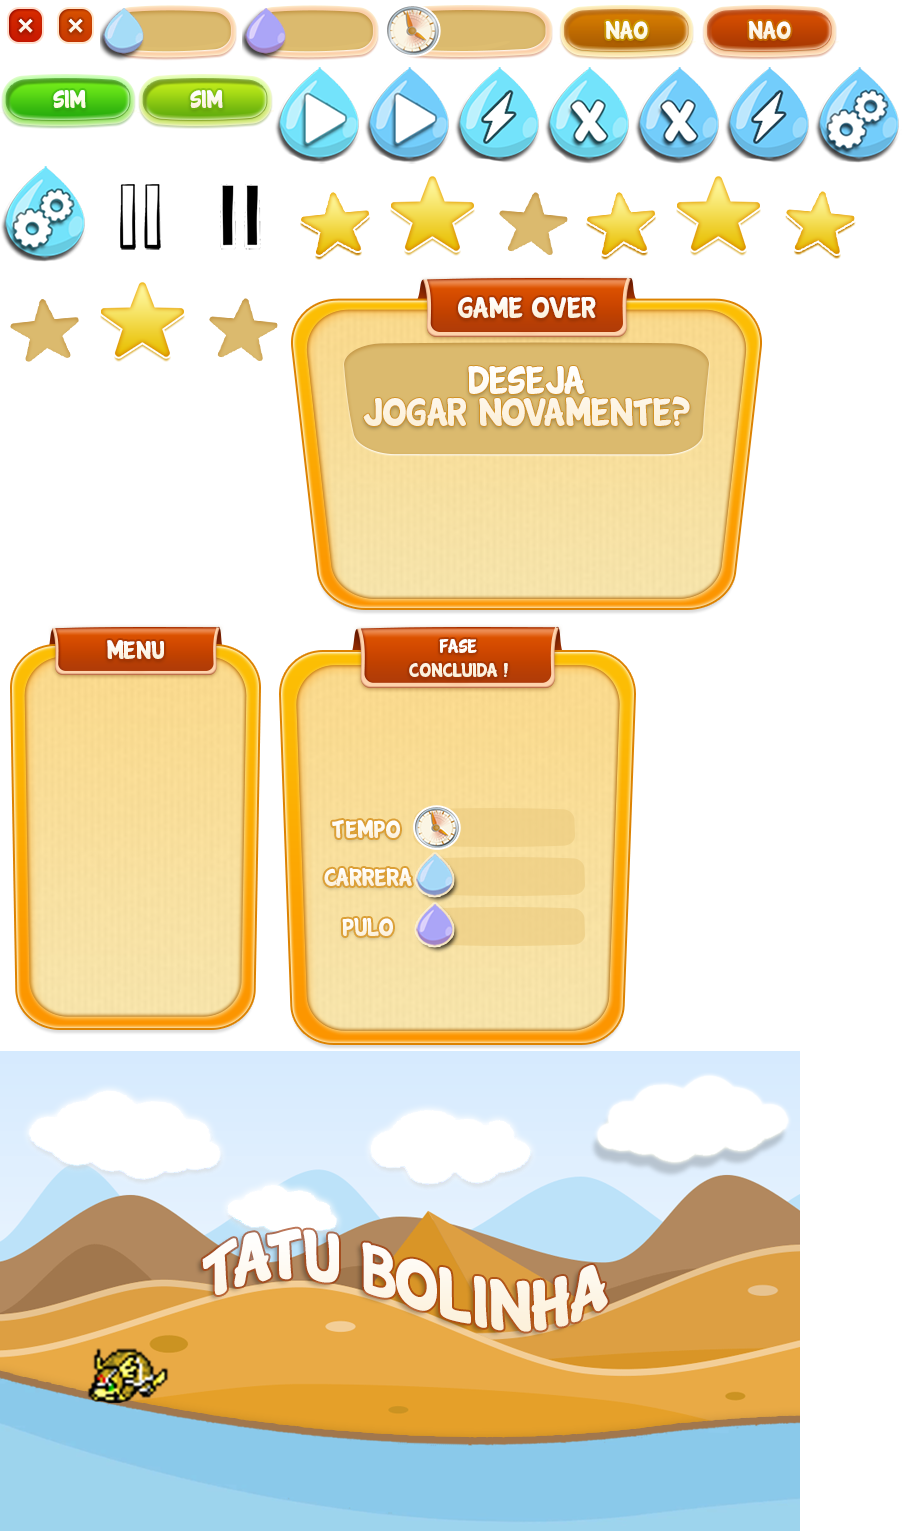
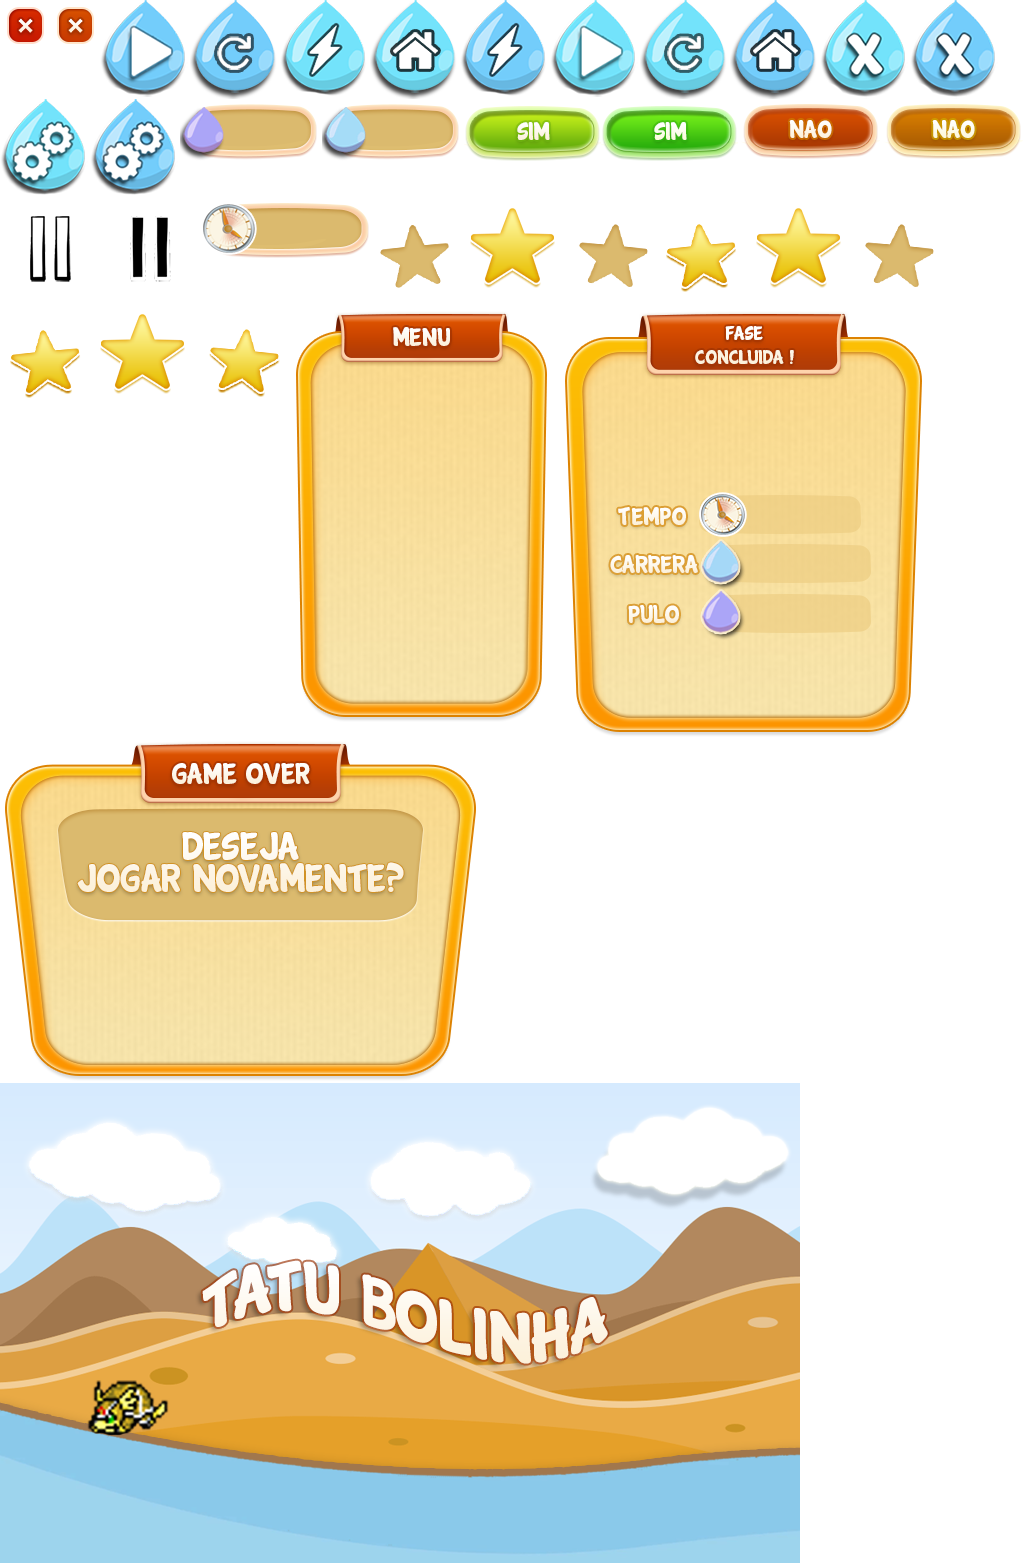
Commit com finalizacao da tela de Fim da fase

diff --git a/core/src/com/tatu/game/Screens/FinalLevelScreen.java b/core/src/com/tatu/game/Screens/FinalLevelScreen.java
@@ -3,18 +3,28 @@ package com.tatu.game.Screens;
 import com.badlogic.gdx.Game;
 import com.badlogic.gdx.Gdx;
 import com.badlogic.gdx.Screen;
+import com.badlogic.gdx.audio.Sound;
+import com.badlogic.gdx.graphics.Color;
 import com.badlogic.gdx.graphics.GL20;
 import com.badlogic.gdx.graphics.OrthographicCamera;
+import com.badlogic.gdx.graphics.g2d.BitmapFont;
 import com.badlogic.gdx.graphics.g2d.TextureAtlas;
 import com.badlogic.gdx.scenes.scene2d.InputEvent;
 import com.badlogic.gdx.scenes.scene2d.Stage;
 import com.badlogic.gdx.scenes.scene2d.ui.Button;
 import com.badlogic.gdx.scenes.scene2d.ui.Image;
+import com.badlogic.gdx.scenes.scene2d.ui.Label;
 import com.badlogic.gdx.scenes.scene2d.ui.Skin;
 import com.badlogic.gdx.scenes.scene2d.utils.ClickListener;
 import com.badlogic.gdx.utils.viewport.FitViewport;
 import com.badlogic.gdx.utils.viewport.Viewport;
 import com.tatu.game.TatuBola;
+import com.tatu.game.Util.BdManager;
+import com.tatu.game.Util.Session;
+
+import java.awt.Font;
+import java.text.SimpleDateFormat;
+import java.util.Date;
 
 /**
  * Created by uehara on 21/08/17.
@@ -25,27 +35,30 @@ public class FinalLevelScreen implements Screen {
     private Stage stage;
     private TatuBola game;
 
-    private int mortes;
+    private int level;
     private int tempo;
     private int aguaCarrera;
     private int aguaPulo;
+    private Sound selecionado;
+    private Session session = Session.getInstance();
 
-    //public FinalLevelScreen(TatuBola game, int mortes , int tempo, int aguaCarrera, int aguaPulo) {
-    public FinalLevelScreen(TatuBola game) {
+    public FinalLevelScreen(TatuBola game, int level, int tempo, int aguaCarrera, int aguaPulo) {
 
         this.game = game;
-        /*
-        this.mortes = mortes;
+        this.level = level;
         this.tempo = tempo;
         this.aguaCarrera = aguaCarrera;
         this.aguaPulo = aguaPulo;
-        */
+
 
         OrthographicCamera cam = new OrthographicCamera();
         Viewport viewport = new FitViewport(800, 480, cam);
         //Viewport viewport = new FitViewport(V_WIDTH, V_HEIGHT, cam);
         stage = new Stage(viewport, TatuBola.batch);
         Gdx.input.setInputProcessor(stage);
+
+        selecionado = Gdx.audio.newSound(Gdx.files.internal("efeitos/selecionado.wav"));
+
     }
 
     @Override
@@ -61,34 +74,165 @@ public class FinalLevelScreen implements Screen {
         gameOver.setPosition( ( 800 - 372)/2 , (480 - 434)/2 ) ;
         stage.addActor(gameOver);
 
-        Image star = new Image(skin,"1star");
+        String strTempo = new SimpleDateFormat("mm:ss").format(new Date(this.tempo * 1000L));
+
+        Double desempenhoTemp = Double.valueOf((getDesempenhoAguaCarrera() + getDesempenhoAguaPulo() + getDesempenhoTempo() ) / 3);
+        int desempenho = (int) Math.floor(desempenhoTemp);
+
+        String starResource = "1star";
+        switch (desempenho){
+            case 1:
+                starResource = "1star";
+                break;
+            case 2:
+                starResource = "2star";
+                break;
+            case 3:
+                starResource = "3star";
+                break;
+        }
+
+        Image star = new Image(skin,starResource);
         star.setPosition( 260 , 270 ) ;
         stage.addActor(star);
 
+        Label.LabelStyle font = new Label.LabelStyle(new BitmapFont(Gdx.files.internal("fonts/cartwhel.fnt")), Color.WHITE);
+
+        Label tempoLabel = new Label(strTempo, font);
+        tempoLabel.setPosition(410, 230);
+        stage.addActor(tempoLabel);
+
+        Label aguaCarreraLabel = new Label(this.aguaCarrera+"", font);
+        aguaCarreraLabel.setPosition(410, 180);
+        stage.addActor(aguaCarreraLabel);
+
+        Label aguaPuloLabel = new Label(this.aguaPulo+"", font);
+        aguaPuloLabel.setPosition(410, 130);
+        stage.addActor(aguaPuloLabel);
+
+        session.getUsuarioLogado().setAguaCarreraMoney(session.getUsuarioLogado().getAguaCarreraMoney() + this.aguaCarrera);
+        session.getUsuarioLogado().setAguaPuloMoney(session.getUsuarioLogado().getAguaPuloMoney() + this.aguaPulo);
+        session.getUsuarioLogado().getLevels().get(this.level).setScore(desempenho);
+        session.getUsuarioLogado().getLevels().get(this.level+1).setLocked(false);
+        BdManager.getInstance().saveUserInSharedPref(session.getUsuarioLogado());
+
+        int negativeScale = 25;
+
+        Button playAgainButton = new Button(skin, "playAgainButton");
+        playAgainButton.setPosition( 270 , 50) ;
+        playAgainButton.setWidth(playAgainButton.getWidth()-negativeScale);
+        playAgainButton.setHeight(playAgainButton.getHeight()-negativeScale);
+        stage.addActor(playAgainButton);
+
         Button jogarButton = new Button(skin, "jogarButton");
-        jogarButton.setPosition( 200 , 50) ;
+        jogarButton.setPosition( 370 , 50) ;
+        jogarButton.setWidth(jogarButton.getWidth()-negativeScale);
+        jogarButton.setHeight(jogarButton.getHeight()-negativeScale);
         stage.addActor(jogarButton);
 
+        Button lojaButton = new Button(skin, "lojaButton");
+        lojaButton.setPosition(470, 50);
+        lojaButton.setWidth(lojaButton.getWidth()-negativeScale);
+        lojaButton.setHeight(lojaButton.getHeight()-negativeScale);
+        stage.addActor(lojaButton);
 
-        Button sairButton = new Button(skin, "sairButton");
-        sairButton.setPosition( 350 , 50) ;
-        stage.addActor(sairButton);
-
-        jogarButton.addListener(new ClickListener() {
+        lojaButton.addListener(new ClickListener() {
             @Override
             public void clicked(InputEvent event, float x, float y) {
+                selecionado.play();
+                ((Game) Gdx.app.getApplicationListener()).setScreen(new LojaScreen(game));
+                dispose();
+            }
+        });
+
+        playAgainButton.addListener(new ClickListener() {
+            @Override
+            public void clicked(InputEvent event, float x, float y) {
+                selecionado.play();
+                ((Game)Gdx.app.getApplicationListener()).setScreen(new PlayScreen(game,level));
+                dispose();
+            }
+        });
+
+        jogarButton.addListener(new ClickListener(){
+            @Override
+            public void clicked(InputEvent event, float x, float y) {
+                selecionado.play();
                 ((Game)Gdx.app.getApplicationListener()).setScreen(new LevelScreen(game));
                 dispose();
             }
         });
+    }
 
-        sairButton.addListener(new ClickListener(){
-            @Override
-            public void clicked(InputEvent event, float x, float y) {
-                ((Game)Gdx.app.getApplicationListener()).setScreen(new MenuScreen(game));
-                dispose();
-            }
-        });
+    public int getDesempenhoAguaCarrera(){
+        // Inicializando
+        int levelCarrera = 1;
+
+        if (this.level == 1 ) {
+            //Quantidade de aguas que existem na fase 1
+            levelCarrera = 2;
+        }else if (this.level == 2 ){
+            levelCarrera = 8;
+        }else if (this.level == 3 ){
+            levelCarrera = 8;
+        }
+        int desempenhoParcial = this.aguaCarrera/levelCarrera;
+        if (desempenhoParcial >= 0.75) {
+            return 3;
+        }else if (desempenhoParcial >= 0.5 && desempenhoParcial < 0.75 ){
+            return 2;
+        }else if(desempenhoParcial < 0.5){
+            return 1;
+        }
+        // Retorno padrão em caso de algum erro.
+        return 1;
+    }
+
+    public int getDesempenhoAguaPulo(){
+        // Inicializando
+        int levelPulo = 1;
+
+        if (this.level == 1 ) {
+            //Quantidade de aguas que existem na fase 1
+             levelPulo = 2;
+        }else if (this.level == 2 ){
+            levelPulo = 8;
+        }else if (this.level == 3 ){
+            levelPulo = 8;
+        }
+        int desempenhoParcial = this.aguaPulo/levelPulo;
+        if (desempenhoParcial >= 0.75) {
+            return 3;
+        }else if (desempenhoParcial >= 0.5 && desempenhoParcial < 0.75 ){
+            return 2;
+        }else if(desempenhoParcial < 0.5){
+            return 1;
+        }
+        // Retorno padrão em caso de algum erro.
+        return 1;
+    }
+
+    public int getDesempenhoTempo(){
+        int tempoMinimo = 60;
+        if (this.level == 1 ) {
+            //Tempo minimo para completar a fase 1
+            tempoMinimo = 80;
+        }else if (this.level == 2 ){
+            tempoMinimo = 80;
+        }else if (this.level == 3 ){
+            tempoMinimo = 80;
+        }
+        int desempenhoParcial = this.tempo/tempoMinimo;
+        if (desempenhoParcial <= 1.5) {
+            return 3;
+        }else if (desempenhoParcial > 1.5 && desempenhoParcial <= 2){
+            return 2;
+        }else if(desempenhoParcial > 2){
+            return 1;
+        }
+        // Retorno padrão em caso de algum erro.
+        return 1;
+
     }
 
     @Override

diff --git a/core/src/com/tatu/game/Screens/PlayScreen.java b/core/src/com/tatu/game/Screens/PlayScreen.java
@@ -52,11 +52,14 @@ public class PlayScreen implements Screen {
 
     private boolean block;
     private Music musica;
+    private int level;
 
     private Group pauseGroup;
 
     public PlayScreen(TatuBola game, int level) {
         this.game = game;
+
+        this.level = level;
 
         atlas = new TextureAtlas("sprites/Tatu64 - Copia - Copia.atlas");
         gameCam = new OrthographicCamera(V_WIDTH, V_HEIGHT);
@@ -191,7 +194,7 @@ public class PlayScreen implements Screen {
         if (player.acabouFase()) {
             musica.stop();
             musica.setVolume(0);
-            ((Game) Gdx.app.getApplicationListener()).setScreen(new GameOverScreen(game));
+            ((Game) Gdx.app.getApplicationListener()).setScreen(new FinalLevelScreen(game,level, hud.getWorldTimer() ,hud.getAguaCarreraScoreValue(), hud.getAguaPuloScoreValue()));
         }
 
         gameCam.update();

diff --git a/core/src/com/tatu/game/Scenes/Hud.java b/core/src/com/tatu/game/Scenes/Hud.java
@@ -136,6 +136,14 @@ public class Hud implements Disposable {
         this.aguaPuloScoreValue = aguaPuloScoreValue;
     }
 
+    public Integer getWorldTimer() {
+        return worldTimer;
+    }
+
+    public void setWorldTimer(Integer worldTimer) {
+        this.worldTimer = worldTimer;
+    }
+
     @Override
     public void dispose() {
         skin.dispose();

diff --git a/core/src/com/tatu/game/Screens/MenuScreen.java b/core/src/com/tatu/game/Screens/MenuScreen.java
@@ -62,7 +62,6 @@ class MenuScreen implements Screen {
         });
 
         lojaButton = new Button(skin, "lojaButton");
-        //lojaButton.setPosition( 650 , 10+116+10+116+10+116+10) ;
         lojaButton.setPosition(350, 0);
 
         lojaButton.addListener(new ClickListener() {
